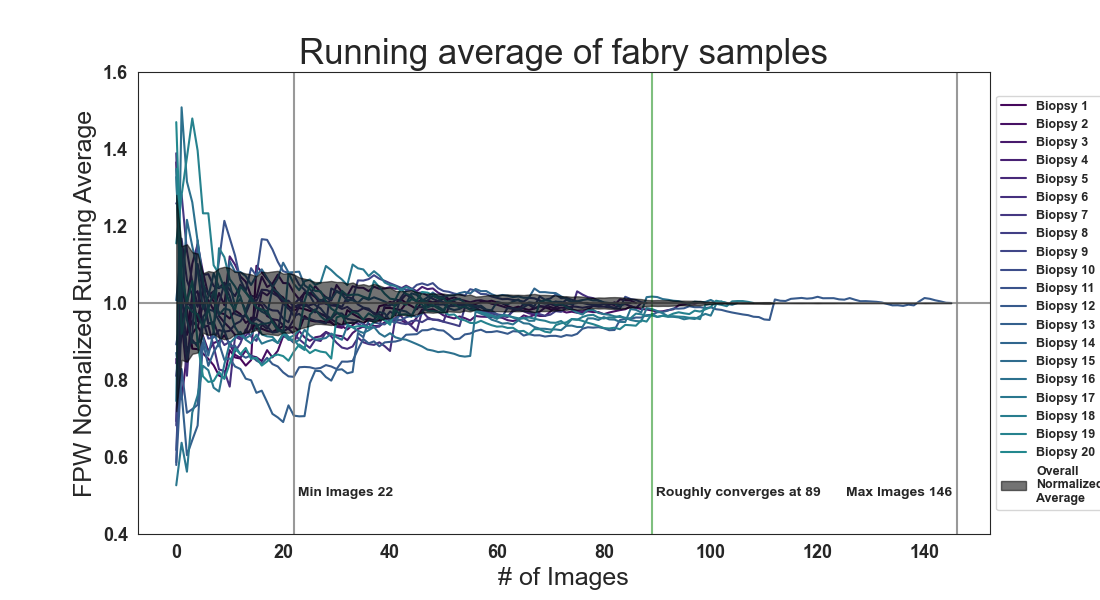
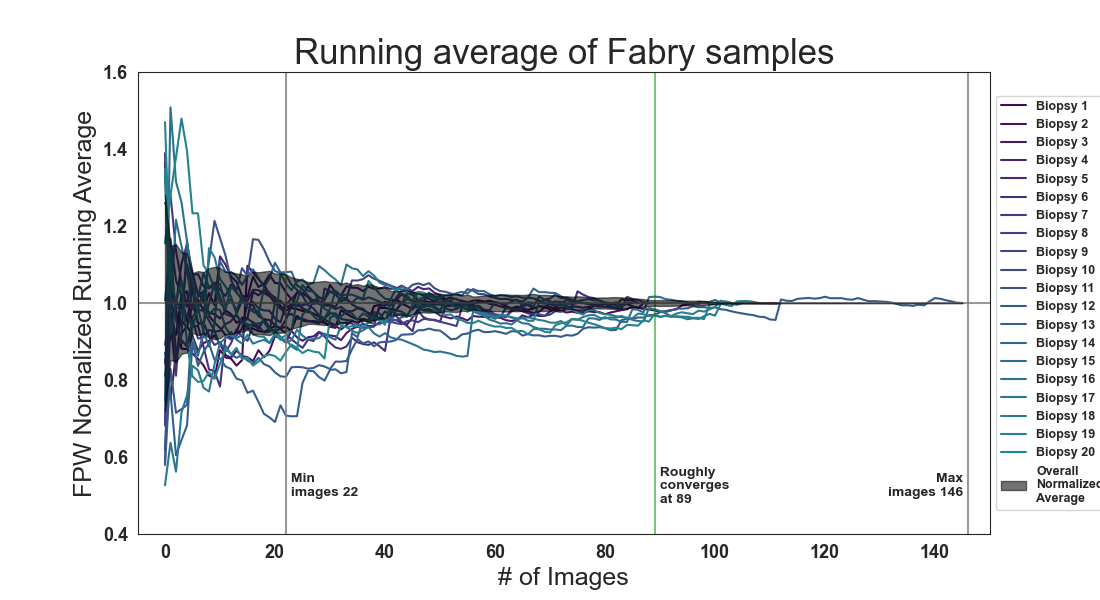
figure changes

diff --git a/figure.py b/figure.py
@@ -9,6 +9,11 @@ from numpy.testing._private.utils import runstring
 import seaborn as sns
 from matplotlib import rc
 
+
+# x and y limitations (REQUIRED)
+Y_LIM = [0.4, 1.6]
+X_LIM = [-5.0, 150]
+
 random.seed(100)  # to make results consistent
 SHAPES = [
     ('solid', 'solid'),  # Same as (0, ()) or '-'
@@ -79,7 +84,6 @@ if args.running_average:
     colors = sns.color_palette('viridis', len(data) + 2)  # [(0, 0, 0)] * (len(data) + 2)
 
     counts = []
-    y_lim = [0.4, 1.6]
     data = data[args.running_average_offset:]
     max_length = max([len(values) for values in data[:args.running_average_num]])  # get longest biopsy 
     x_vals = list(range(max_length))
@@ -121,7 +125,7 @@ if args.running_average:
             for i, v in enumerate(norm_avg_p):
                 if abs(v - 1.0) < 0.01:  # epsilon as second number
                     ax.axvline(x=(i + 1), color='green', alpha=0.5)
-                    ax.text((i + 1) + 0.1, y_lim[0] + 0.1, ' Roughly converges at {}'.format(i + 1), rotation=0)
+                    ax.text((i + 1) + 0.2, Y_LIM[0] + 0.08, ' Roughly\n converges\n at {}'.format(i + 1), rotation=0)
                     break
 
         ax.fill_between(x_vals, norm_avg_m, norm_avg_p, color='black', alpha=0.55, zorder=3, label='Overall\nNormalized\nAverage')
@@ -131,15 +135,16 @@ if args.running_average:
 
     # add the min and max count lines
     ax.axvline(x=np.min(counts), color='gray', alpha=0.8)
-    ax.text(np.min(counts) + 0.1, y_lim[0] + 0.1, ' Min Images {}'.format(np.min(counts)), rotation=0)
+    ax.text(np.min(counts) + 0.2, Y_LIM[0] + 0.1, ' Min\n images {}'.format(np.min(counts)), rotation=0)
     ax.axvline(x=np.max(counts), color='gray', alpha=0.8,
                linestyle='-')
-    ax.text(np.max(counts) - 0.1, y_lim[0] + 0.1, 'Max Images {} '.format(np.max(counts)), rotation=0, horizontalalignment='right')
+    ax.text(np.max(counts) - 0.2, Y_LIM[0] + 0.1, 'Max \nimages {} '.format(np.max(counts)), rotation=0, horizontalalignment='right')
     
     ax.set_ylabel('FPW Normalized Running Average', **csfont)
     ax.set_xlabel('# of Images', **csfont)
     ax.set_title(args.running_average_title, **csfont)
-    ax.set_ylim(y_lim)
+    ax.set_ylim(Y_LIM)
+    ax.set_xlim(X_LIM)
     ax.legend(frameon=True, loc='center left', bbox_to_anchor=(1, 0.5))
     fig.savefig('running_average.png')
 

diff --git a/README.md b/README.md
@@ -118,7 +118,7 @@ After analyzing a dataset you may use the `figure.py` script to generate some fi
 # note: the running_average_num is a MAX biopsy count. Does not guarantee that biopsy count
 
 # figure for fabry dataset
-python figure.py --running_average --running_average_file dataset/fabry/prediction/running_average_individual.json --running_average_num 20 --running_average_offset 0 --running_average_title "Running average of fabry samples" --running_average_use_overall_average --running_average_show_convergence
+python figure.py --running_average --running_average_file dataset/fabry/prediction/running_average_individual.json --running_average_num 20 --running_average_offset 0 --running_average_title "Running average of Fabry samples" --running_average_use_overall_average --running_average_show_convergence
 
 # figure for normal dataset
 python figure.py --running_average --running_average_file dataset/normal/prediction/running_average_individual.json --running_average_num 20 --running_average_offset 0 --running_average_title "Running average of normal samples" --running_average_use_overall_average --running_average_show_convergence
